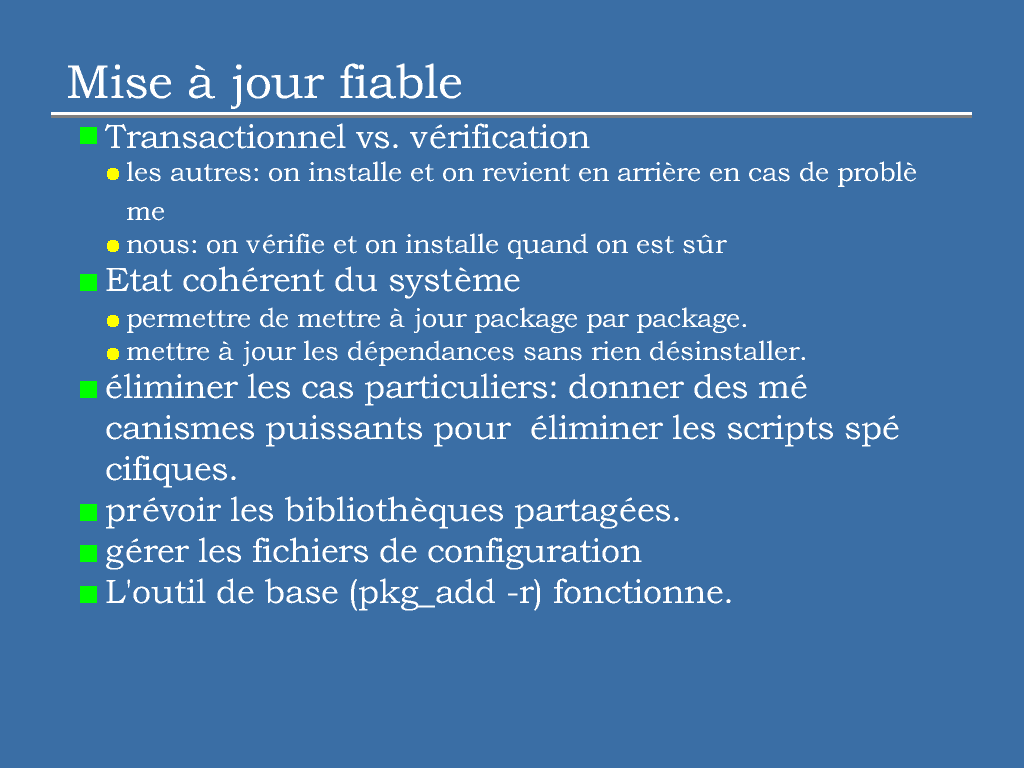
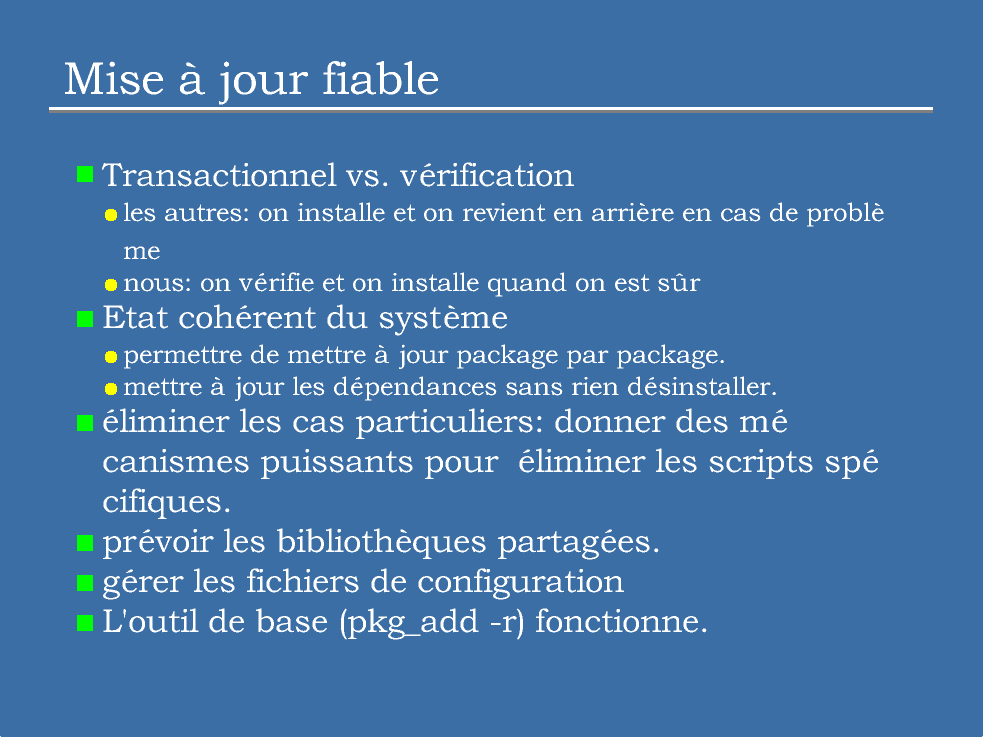
fix duplicate pages generated automatically by magicpoint after trying several samples and crossing fingers. I'm still trying to figure out where's the bug/error but at least the presentation is fixed. thanks to wiz@netbsd.org who reported this issue thru jmc@.

Changed region(s): [[0.061, 0.0624, 0.9156, 0.8738]]

diff --git a/papers/sl2005/mgp00024.html b/papers/sl2005/mgp00024.html
@@ -4,6 +4,6 @@
 <A HREF="index.html">[index]</A> <A HREF=mgp00024.txt>[text page]</A> <A HREF=mgp00001.html>[&lt;&lt;start]</A>  <A HREF=mgp00023.html>[&lt;prev]</A> <A HREF=mgp00025.html>[next&gt;]</A> <A HREF=mgp00054.html>[last&gt;&gt;]</A>
 <BR>Page 24: FLAVORS et MULTI_PACKAGES<BR>
 <HR>
-<IMG SRC="mgp00024.png" WIDTH=1024 HEIGHT=768 ALT="Page 24"><BR>
+<IMG SRC="mgp00024.png" WIDTH=983 HEIGHT=737 ALT="Page 24"><BR>
 <HR>Generated by <A HREF="http://member.wide.ad.jp/wg/mgp/">MagicPoint</A>
 </BODY></HTML>

diff --git a/papers/sl2005/mgp00037.html b/papers/sl2005/mgp00037.html
@@ -4,6 +4,6 @@
 <A HREF="index.html">[index]</A> <A HREF=mgp00037.txt>[text page]</A> <A HREF=mgp00001.html>[&lt;&lt;start]</A>  <A HREF=mgp00036.html>[&lt;prev]</A> <A HREF=mgp00038.html>[next&gt;]</A> <A HREF=mgp00054.html>[last&gt;&gt;]</A>
 <BR>Page 37: Options de fonctionnement<BR>
 <HR>
-<IMG SRC="mgp00037.png" WIDTH=1024 HEIGHT=768 ALT="Page 37"><BR>
+<IMG SRC="mgp00037.png" WIDTH=983 HEIGHT=737 ALT="Page 37"><BR>
 <HR>Generated by <A HREF="http://member.wide.ad.jp/wg/mgp/">MagicPoint</A>
 </BODY></HTML>

diff --git a/papers/sl2005/mgp00025.html b/papers/sl2005/mgp00025.html
@@ -4,6 +4,6 @@
 <A HREF="index.html">[index]</A> <A HREF=mgp00025.txt>[text page]</A> <A HREF=mgp00001.html>[&lt;&lt;start]</A>  <A HREF=mgp00024.html>[&lt;prev]</A> <A HREF=mgp00026.html>[next&gt;]</A> <A HREF=mgp00054.html>[last&gt;&gt;]</A>
 <BR>Page 25: Les pkg_* tools, design<BR>
 <HR>
-<IMG SRC="mgp00025.png" WIDTH=1024 HEIGHT=768 ALT="Page 25"><BR>
+<IMG SRC="mgp00025.png" WIDTH=983 HEIGHT=737 ALT="Page 25"><BR>
 <HR>Generated by <A HREF="http://member.wide.ad.jp/wg/mgp/">MagicPoint</A>
 </BODY></HTML>

diff --git a/papers/sl2005/mgp00027.html b/papers/sl2005/mgp00027.html
@@ -4,6 +4,6 @@
 <A HREF="index.html">[index]</A> <A HREF=mgp00027.txt>[text page]</A> <A HREF=mgp00001.html>[&lt;&lt;start]</A>  <A HREF=mgp00026.html>[&lt;prev]</A> <A HREF=mgp00028.html>[next&gt;]</A> <A HREF=mgp00054.html>[last&gt;&gt;]</A>
 <BR>Page 27: Packing-list objet<BR>
 <HR>
-<IMG SRC="mgp00027.png" WIDTH=1024 HEIGHT=768 ALT="Page 27"><BR>
+<IMG SRC="mgp00027.png" WIDTH=983 HEIGHT=737 ALT="Page 27"><BR>
 <HR>Generated by <A HREF="http://member.wide.ad.jp/wg/mgp/">MagicPoint</A>
 </BODY></HTML>

diff --git a/papers/sl2005/mgp00029.html b/papers/sl2005/mgp00029.html
@@ -4,6 +4,6 @@
 <A HREF="index.html">[index]</A> <A HREF=mgp00029.txt>[text page]</A> <A HREF=mgp00001.html>[&lt;&lt;start]</A>  <A HREF=mgp00028.html>[&lt;prev]</A> <A HREF=mgp00030.html>[next&gt;]</A> <A HREF=mgp00054.html>[last&gt;&gt;]</A>
 <BR>Page 29: Travail en cours<BR>
 <HR>
-<IMG SRC="mgp00029.png" WIDTH=1024 HEIGHT=768 ALT="Page 29"><BR>
+<IMG SRC="mgp00029.png" WIDTH=983 HEIGHT=737 ALT="Page 29"><BR>
 <HR>Generated by <A HREF="http://member.wide.ad.jp/wg/mgp/">MagicPoint</A>
 </BODY></HTML>

diff --git a/papers/sl2005/mgp00034.html b/papers/sl2005/mgp00034.html
@@ -4,6 +4,6 @@
 <A HREF="index.html">[index]</A> <A HREF=mgp00034.txt>[text page]</A> <A HREF=mgp00001.html>[&lt;&lt;start]</A>  <A HREF=mgp00033.html>[&lt;prev]</A> <A HREF=mgp00035.html>[next&gt;]</A> <A HREF=mgp00054.html>[last&gt;&gt;]</A>
 <BR>Page 34: Exemple <BR>
 <HR>
-<IMG SRC="mgp00034.png" WIDTH=1024 HEIGHT=768 ALT="Page 34"><BR>
+<IMG SRC="mgp00034.png" WIDTH=983 HEIGHT=737 ALT="Page 34"><BR>
 <HR>Generated by <A HREF="http://member.wide.ad.jp/wg/mgp/">MagicPoint</A>
 </BODY></HTML>

diff --git a/papers/sl2005/mgp00038.html b/papers/sl2005/mgp00038.html
@@ -4,6 +4,6 @@
 <A HREF="index.html">[index]</A> <A HREF=mgp00038.txt>[text page]</A> <A HREF=mgp00001.html>[&lt;&lt;start]</A>  <A HREF=mgp00037.html>[&lt;prev]</A> <A HREF=mgp00039.html>[next&gt;]</A> <A HREF=mgp00054.html>[last&gt;&gt;]</A>
 <BR>Page 38: Exemple<BR>
 <HR>
-<IMG SRC="mgp00038.png" WIDTH=1024 HEIGHT=768 ALT="Page 38"><BR>
+<IMG SRC="mgp00038.png" WIDTH=983 HEIGHT=737 ALT="Page 38"><BR>
 <HR>Generated by <A HREF="http://member.wide.ad.jp/wg/mgp/">MagicPoint</A>
 </BODY></HTML>

diff --git a/papers/sl2005/mgp00035.html b/papers/sl2005/mgp00035.html
@@ -4,6 +4,6 @@
 <A HREF="index.html">[index]</A> <A HREF=mgp00035.txt>[text page]</A> <A HREF=mgp00001.html>[&lt;&lt;start]</A>  <A HREF=mgp00034.html>[&lt;prev]</A> <A HREF=mgp00036.html>[next&gt;]</A> <A HREF=mgp00054.html>[last&gt;&gt;]</A>
 <BR>Page 35: Tables<BR>
 <HR>
-<IMG SRC="mgp00035.png" WIDTH=1024 HEIGHT=768 ALT="Page 35"><BR>
+<IMG SRC="mgp00035.png" WIDTH=983 HEIGHT=737 ALT="Page 35"><BR>
 <HR>Generated by <A HREF="http://member.wide.ad.jp/wg/mgp/">MagicPoint</A>
 </BODY></HTML>
